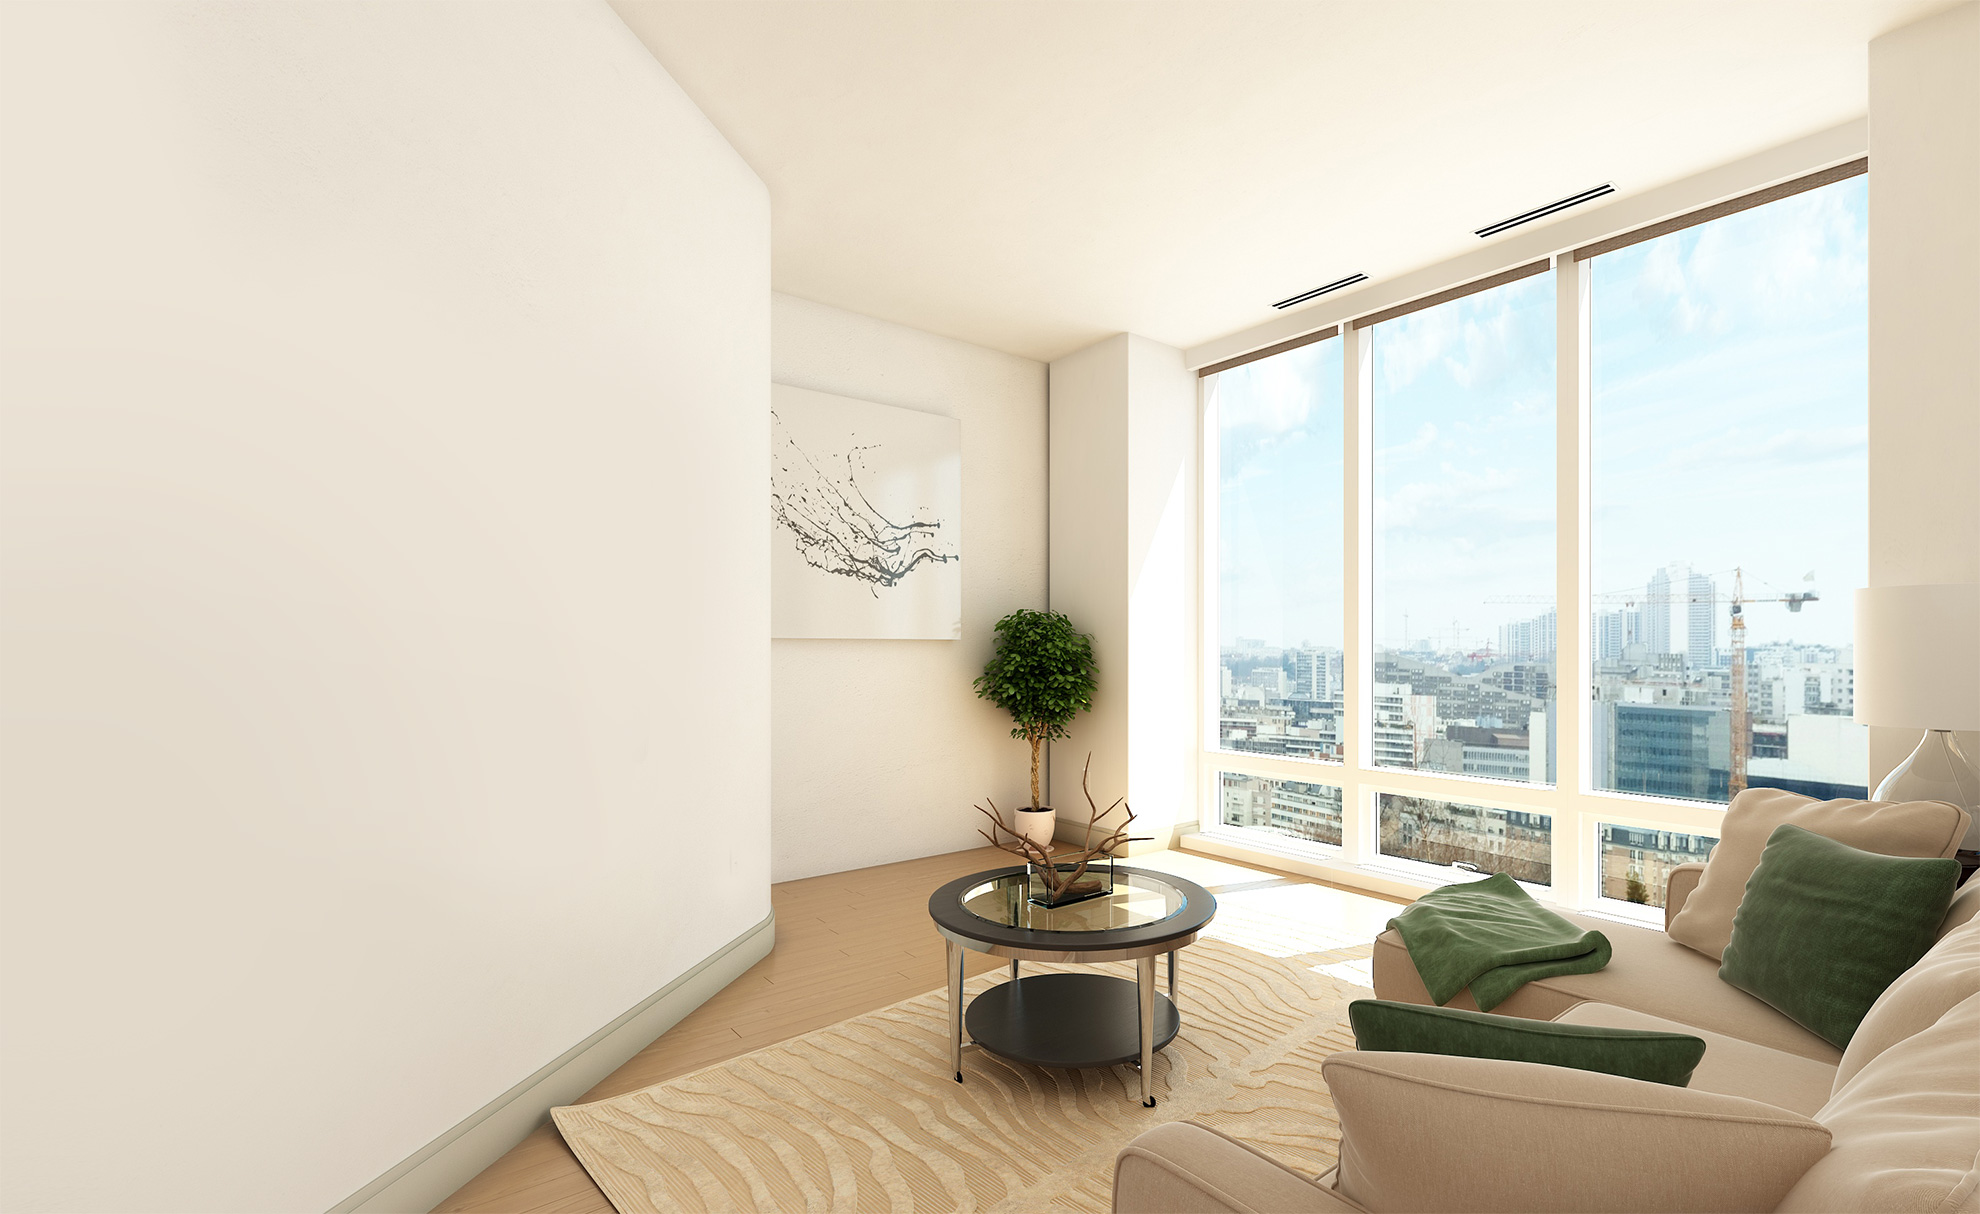
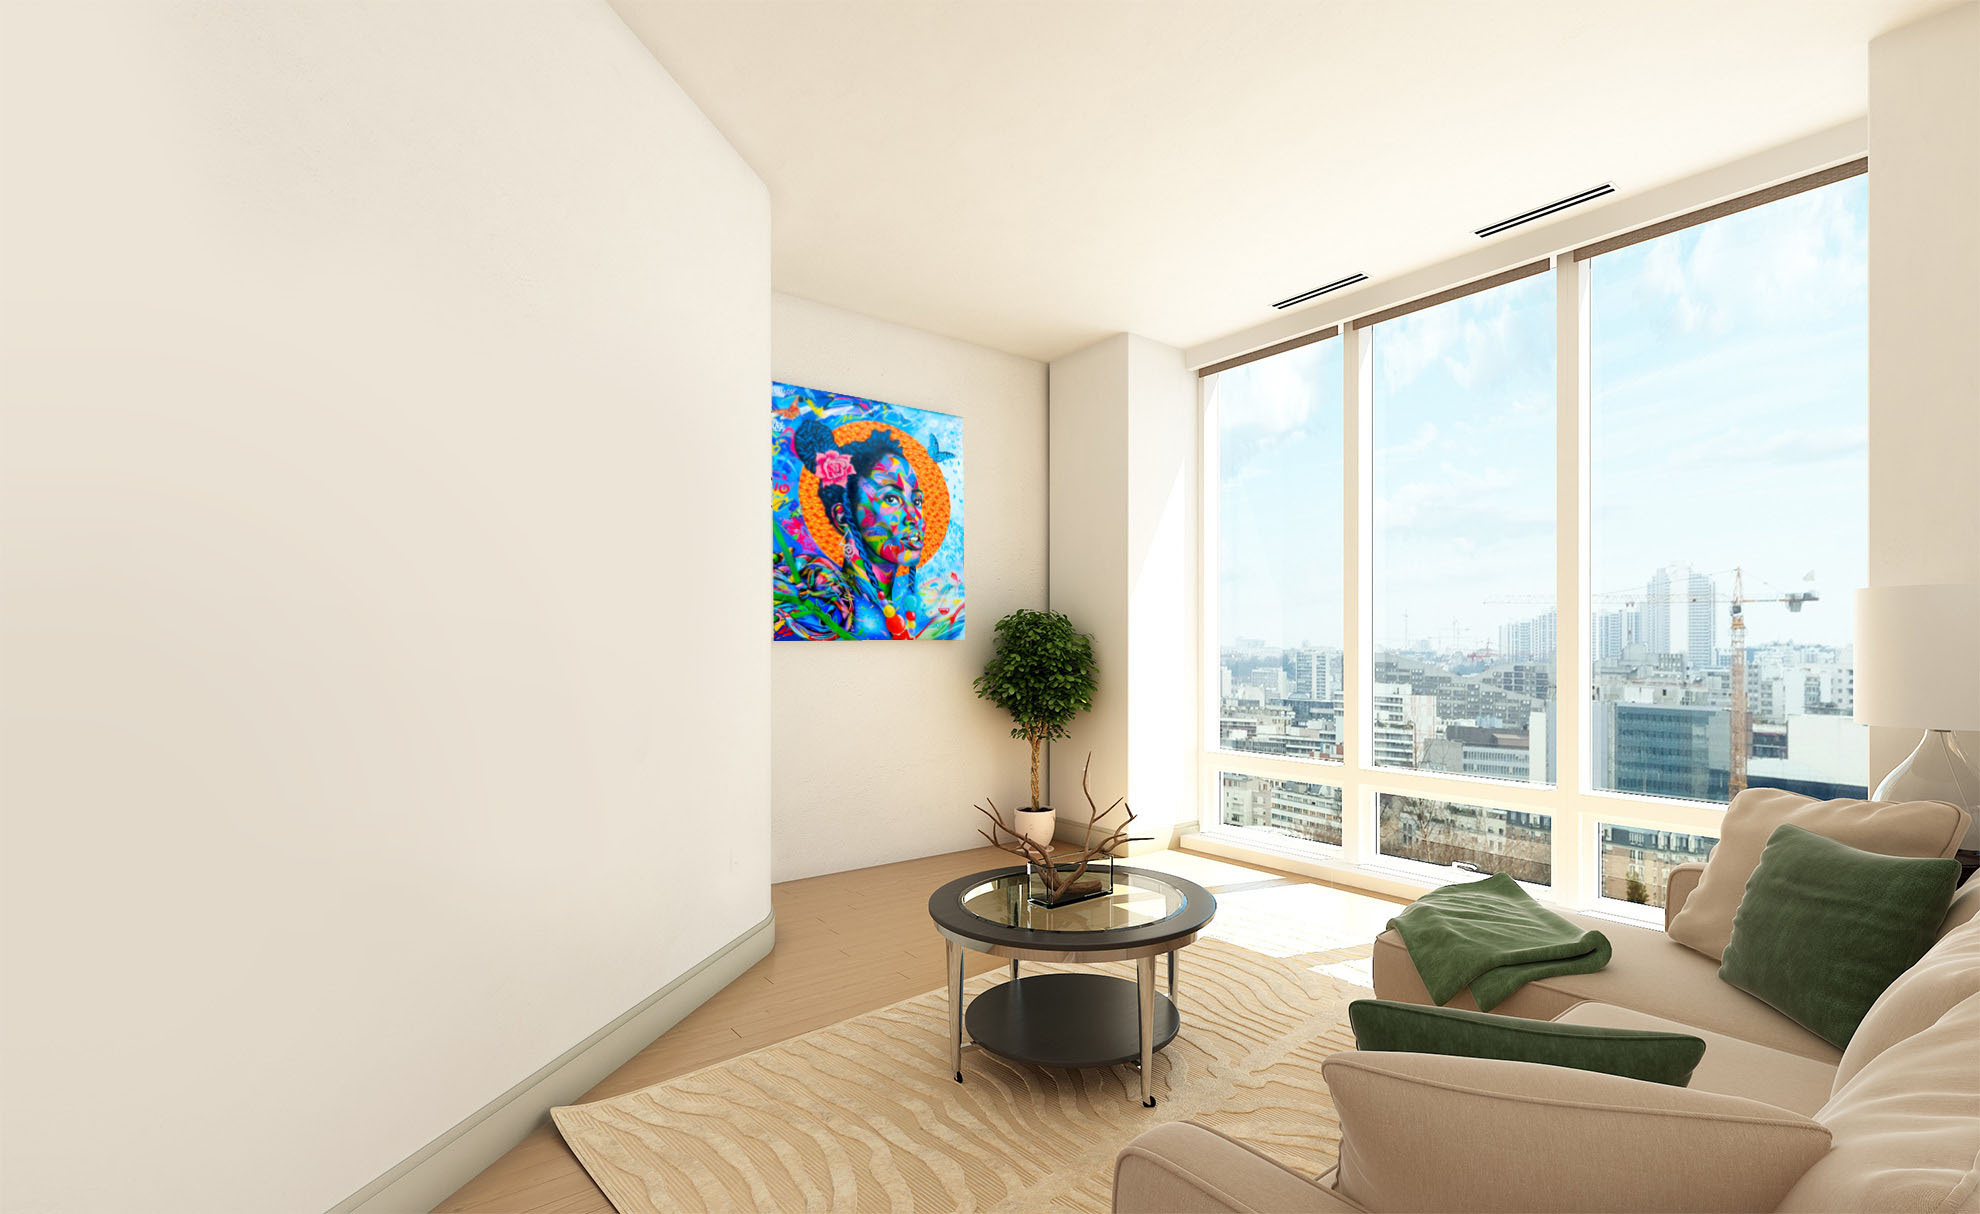
added image to wall, adjusted colors in querries

Changed region(s): [[0.3697, 0.3048, 0.4929, 0.5486]]

diff --git a/style.scss b/style.scss
@@ -1,14 +1,16 @@
 $color:red;
 
 .navbar{
-    background-color:gray;
+    background-color:blue;
     padding: 30px;
 	display:flex;
 	justify-content: space-around;
 	height: 30px;
 	border-radius: 10px;
 }
-
+a{
+	color:black;
+}
 
 
 
@@ -47,7 +49,6 @@ $color:red;
 	margin-bottom: 100px;
 	
 }
-
 
 
 .photos{
@@ -122,8 +123,7 @@ h2{
 			
 			.navbar{
 				background-color:blue;
-				color:green;
-				padding-left: 20px;
+	
 			}
 
 			
@@ -134,9 +134,7 @@ h2{
 		@media only screen and (min-width:768px){
 			
 			.navbar{
-				background-color:cyan;
-				color:green;
-				padding-left: 20px;
+				background-color:cyan;;
 			}
 		}
 
@@ -145,8 +143,28 @@ h2{
 			
 			.navbar{
 				background-color:gray;
-				color:green;
-				padding-left: 20px;
+
 			}
 
 		}
+
+
+
+
+	
+
+
+
+
+
+
+
+
+
+
+
+
+
+
+
+

diff --git a/style.css b/style.css
@@ -1,5 +1,5 @@
 .navbar {
-  background-color: gray;
+  background-color: blue;
   padding: 30px;
   display: -webkit-box;
   display: -ms-flexbox;
@@ -8,6 +8,10 @@
       justify-content: space-around;
   height: 30px;
   border-radius: 10px;
+}
+
+a {
+  color: black;
 }
 
 .hero {
@@ -83,24 +87,18 @@ h2 {
 @media only screen and (min-width: 480px) {
   .navbar {
     background-color: blue;
-    color: green;
-    padding-left: 20px;
   }
 }
 
 @media only screen and (min-width: 768px) {
   .navbar {
     background-color: cyan;
-    color: green;
-    padding-left: 20px;
   }
 }
 
 @media only screen and (min-width: 1200px) {
   .navbar {
     background-color: gray;
-    color: green;
-    padding-left: 20px;
   }
 }
 /*# sourceMappingURL=style.css.map */

diff --git a/Index.html b/Index.html
@@ -32,14 +32,17 @@
 
 <div class="row hero">
     <div class="Luxury-Apartment">
-        <h2>Get Cozy</h2>
+        <h2>Get Cozy <br>in this space</h2>
         <h4>Beautifully Done</h4>
         <button class="read-button">Read More</button>
     </div>
     
     <img class="portrait" src="./images/portrait-man-with-kaleidoscope-effect_23-2148261310.webp">
- </div>   
+   
+ </div>  
+
  <div class="row photos">
+    
      <div class="col">
          <img src="./images/catherina-schurmann-YV9iO-DrT8Y-unsplash.jpg" alt=""class="image1 hero-img">
      </div>
